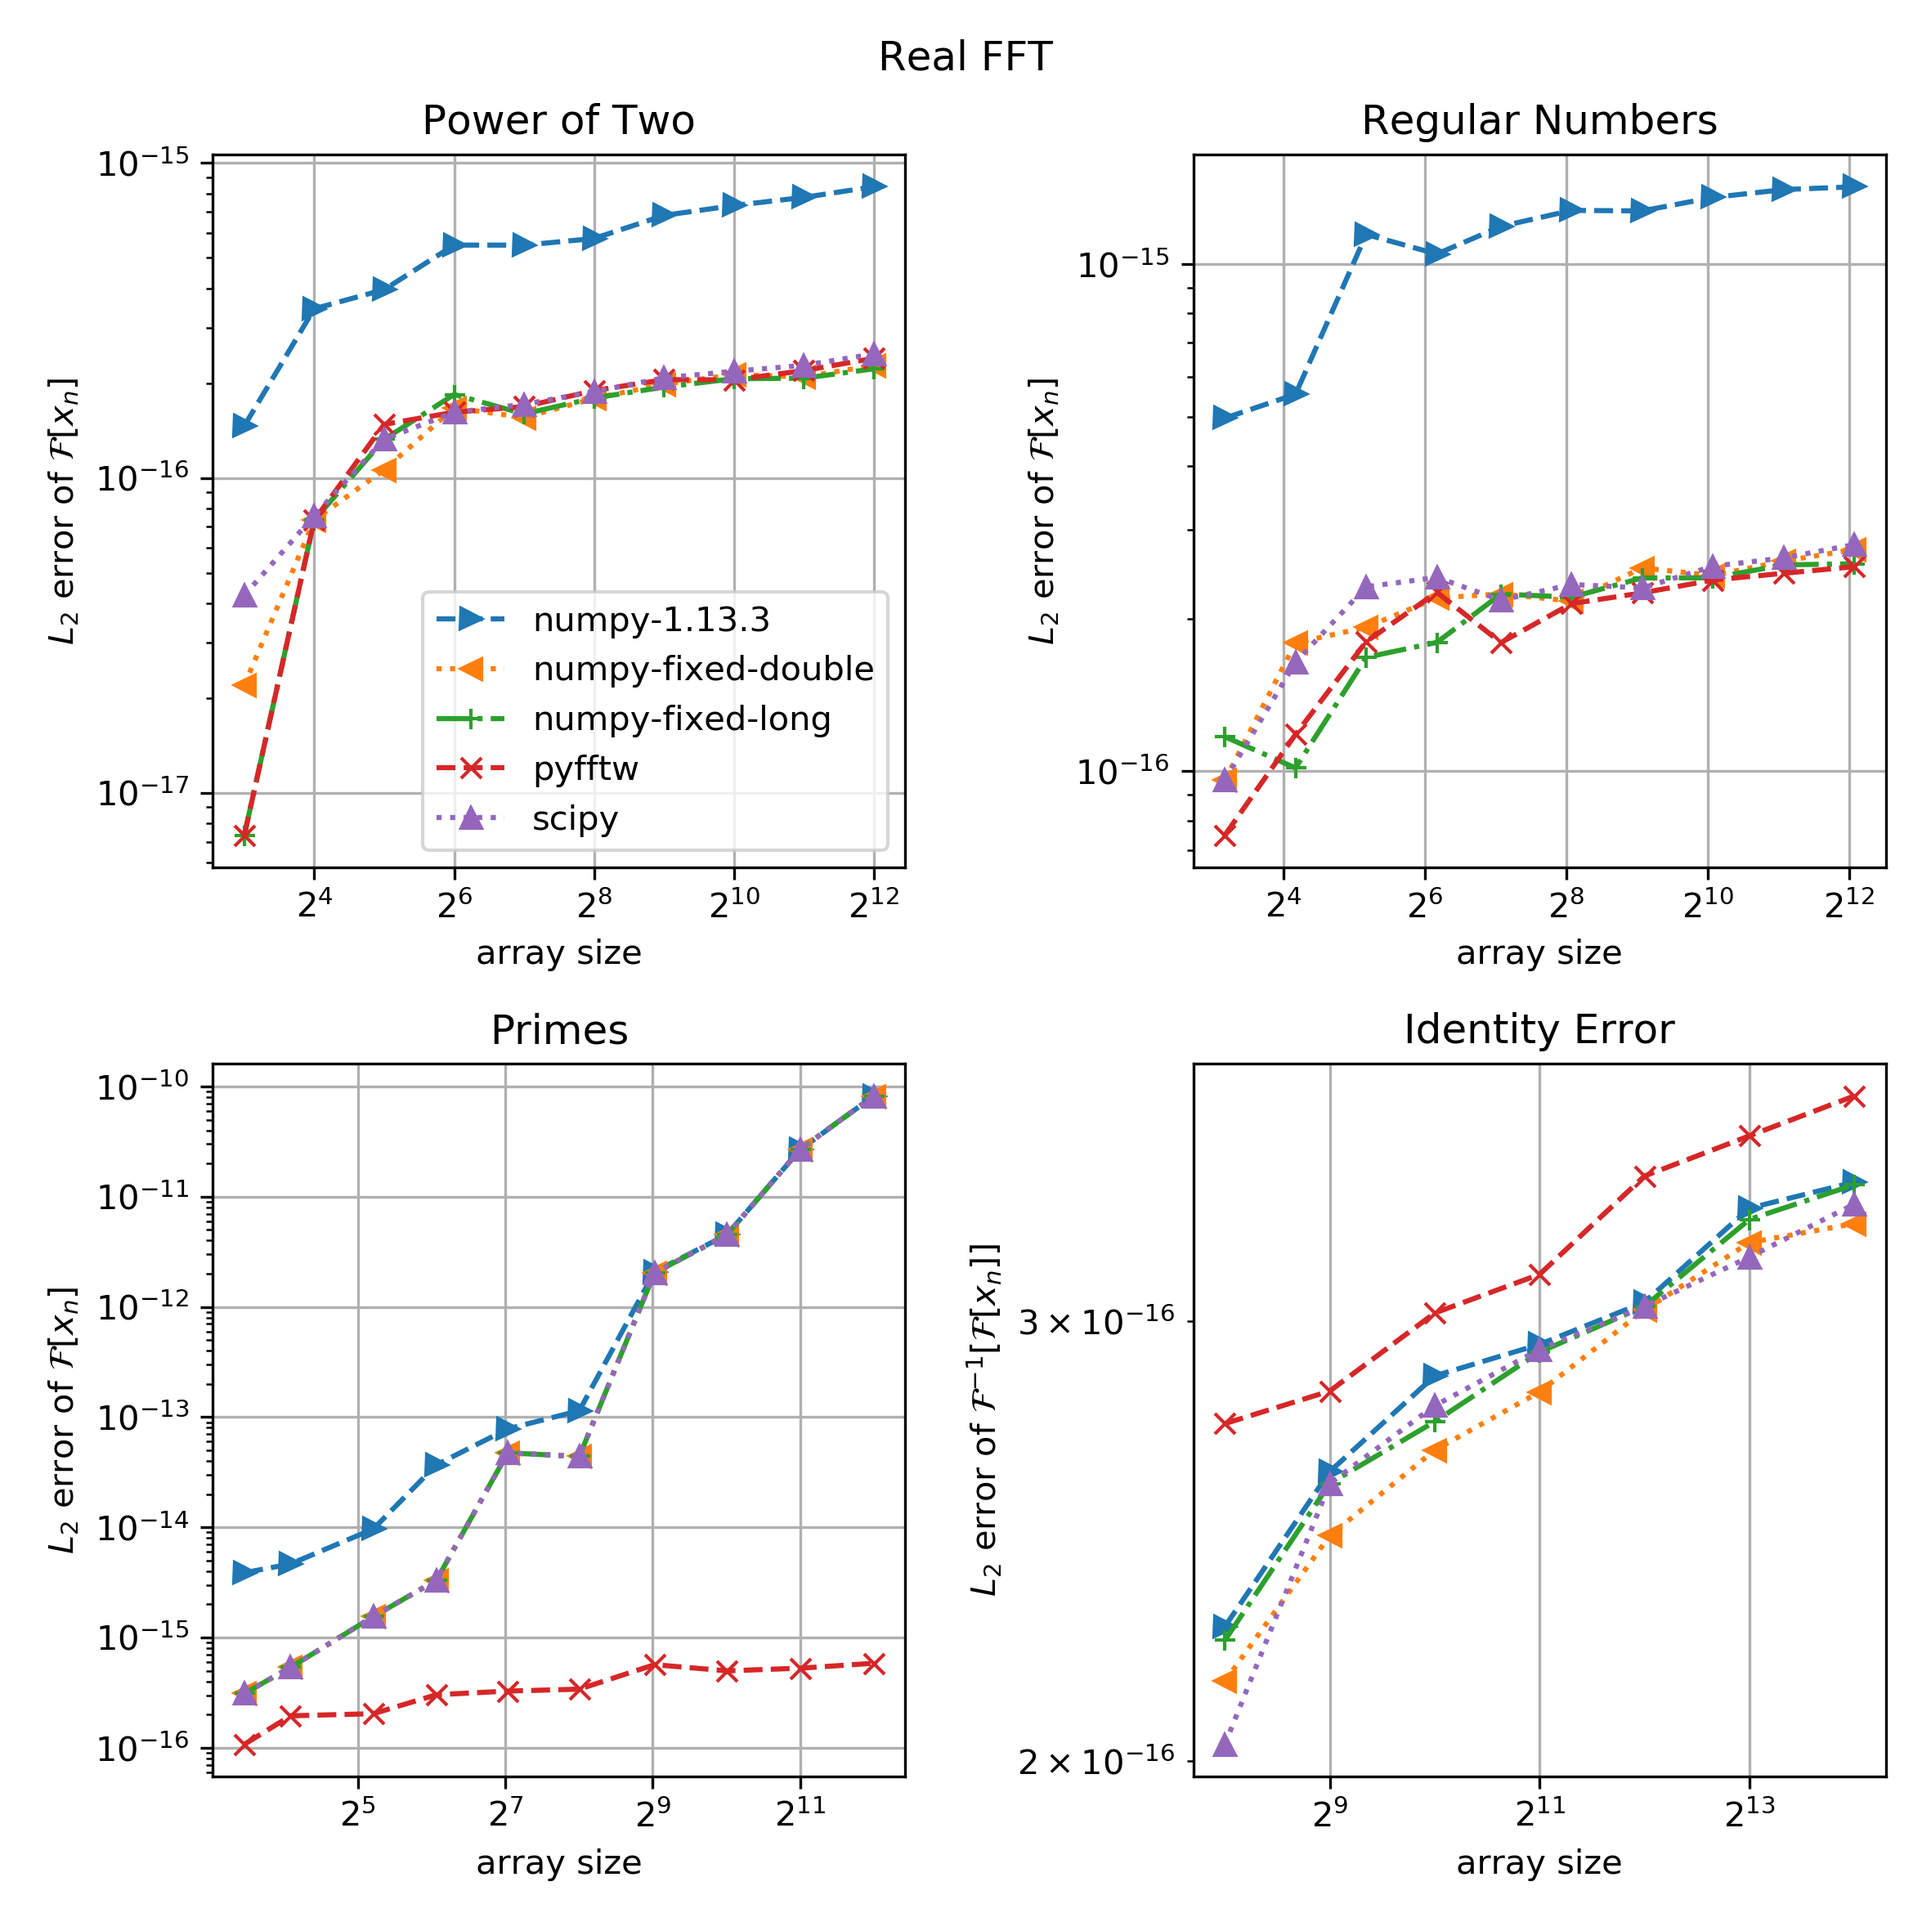
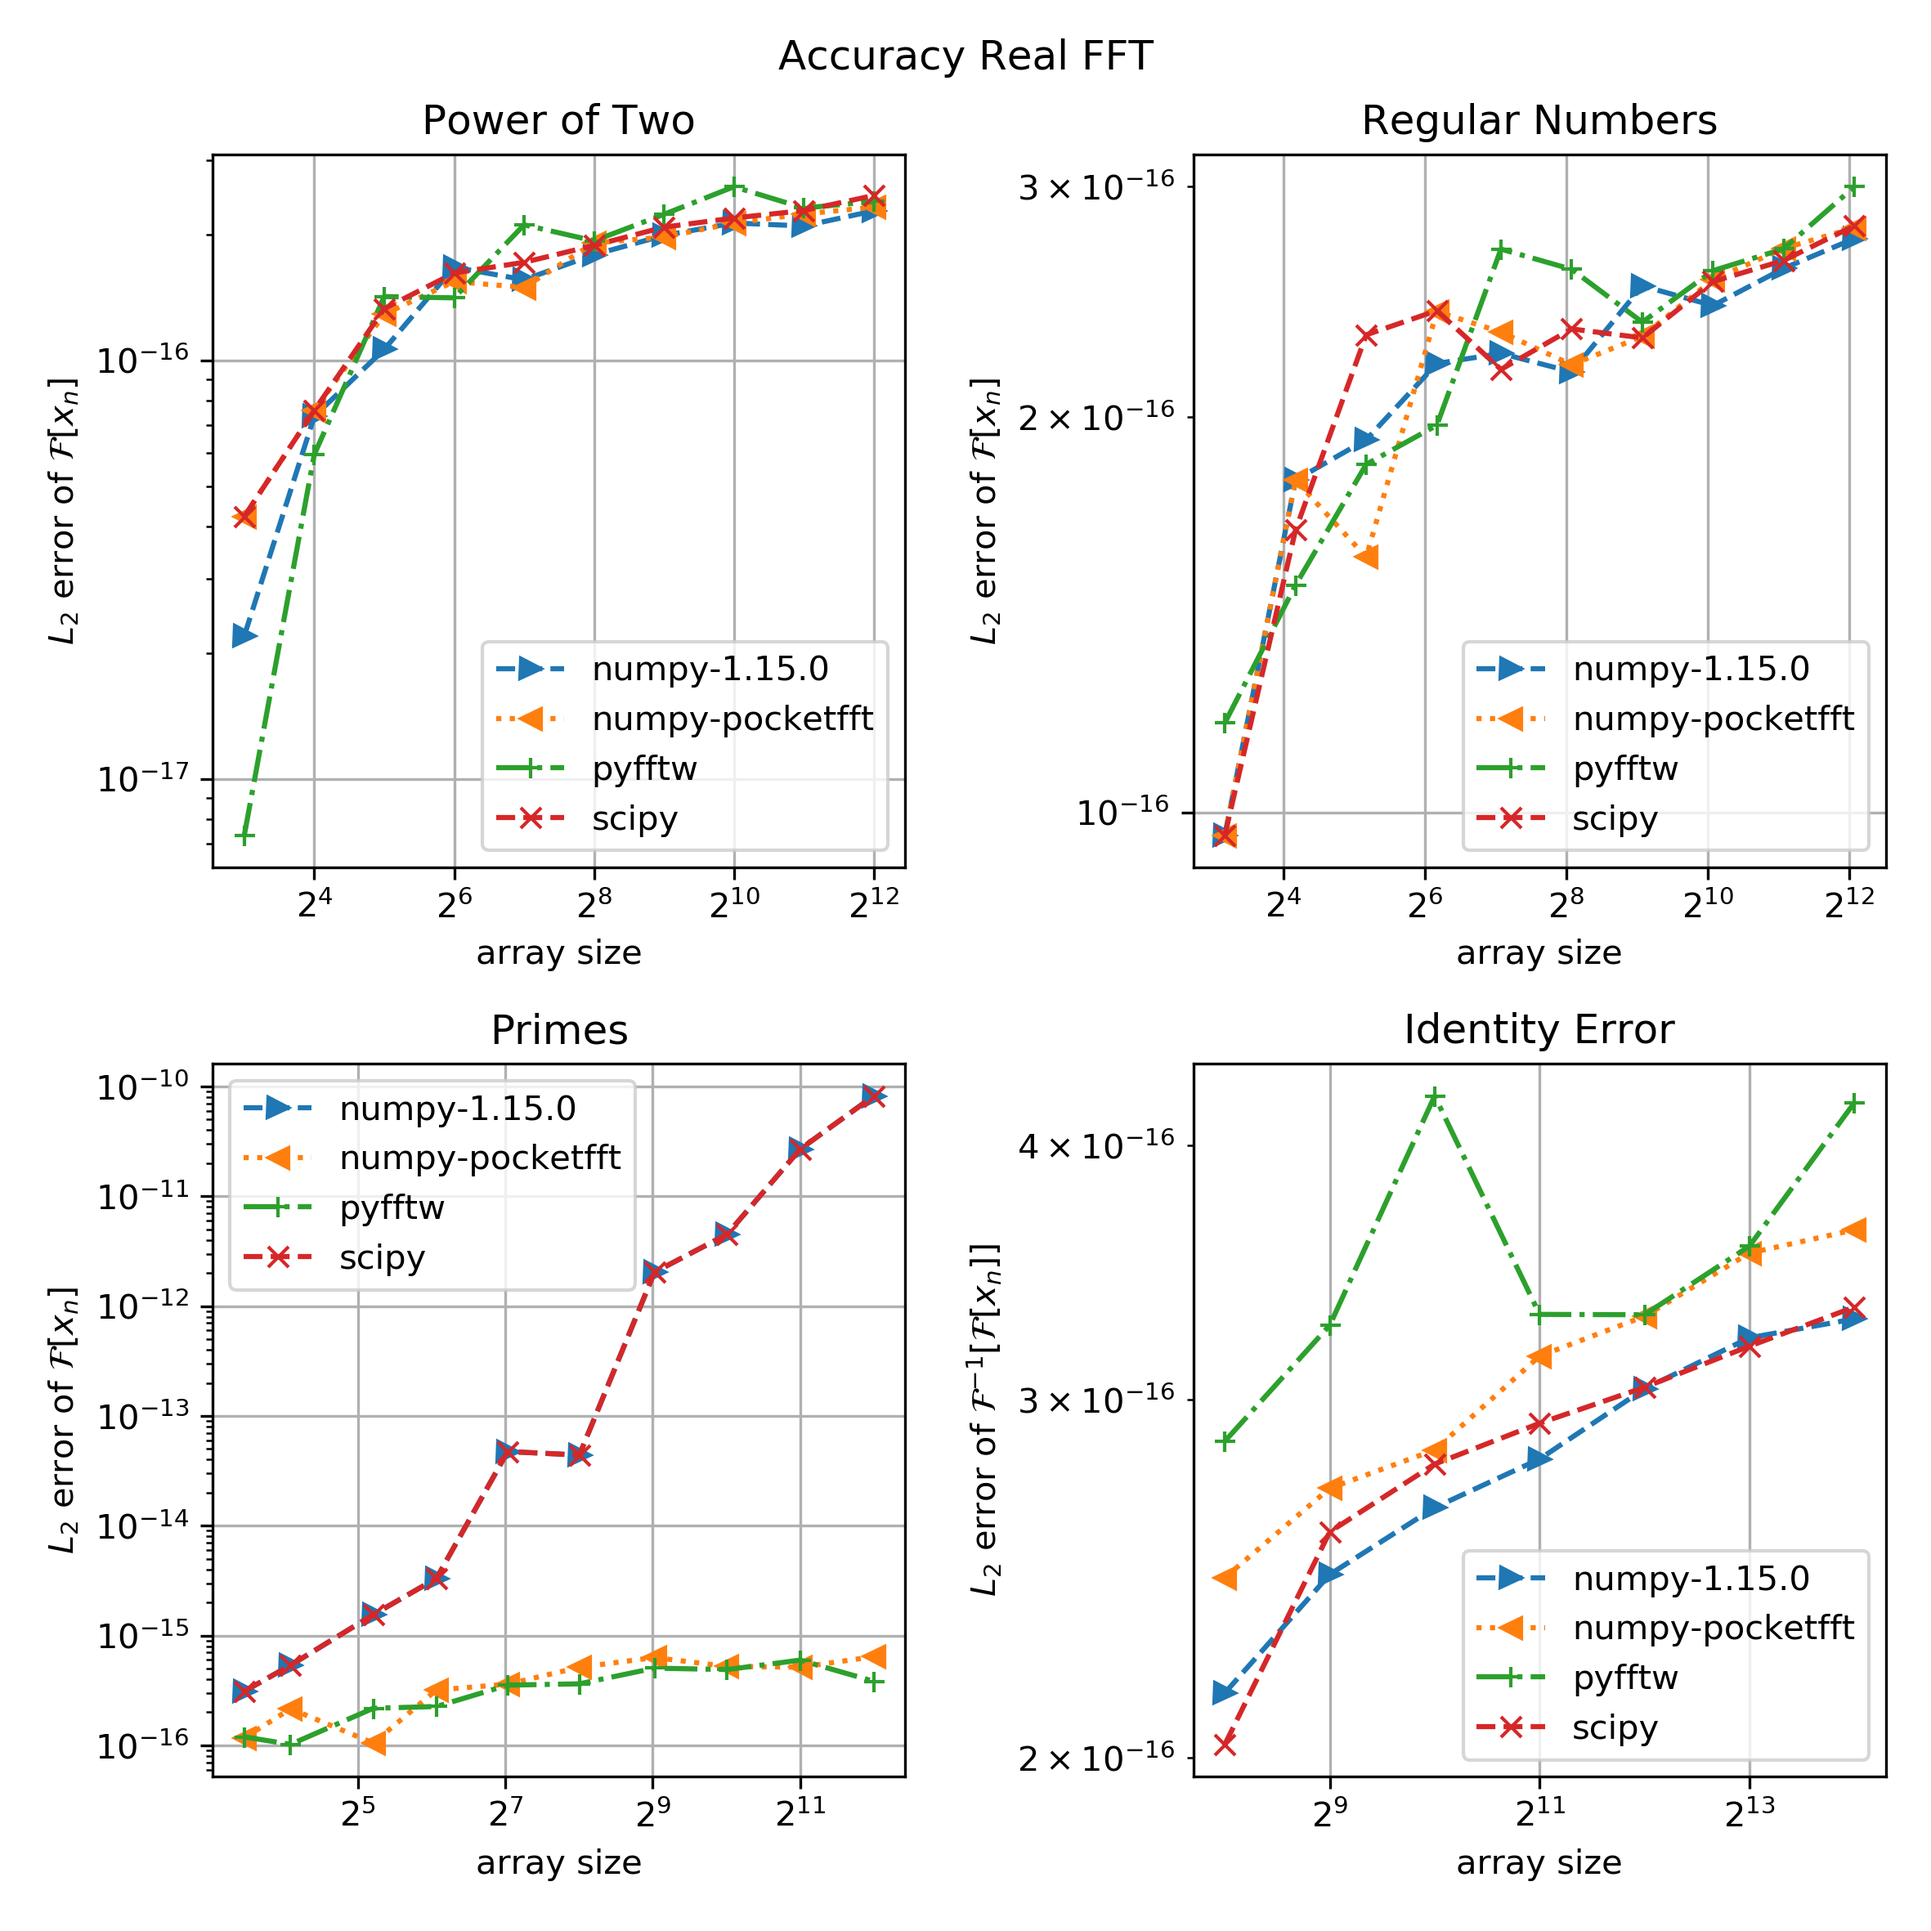
benchmark pocketfft

diff --git a/benchmark_speed.py b/benchmark_speed.py
@@ -5,11 +5,11 @@ import importlib
 from pathlib import Path
 
 # Path to a separate development version of numpy with fixes
-DEV_NUMPY = '~/sources/numpy/'
+DEV_NUMPY = '/home/nils/sources/numpy/'
 
 # a little bit of a hack to import different versions of NumPy
 fft = sys.argv[1]
-if 'fixed' in fft:
+if 'pocketfft' in fft:
     sys.path.insert(0, DEV_NUMPY)
 
 # other imports (which could possibly import numpy)
@@ -17,7 +17,6 @@ import h5py
 import config
 import numpy as np
 import scipy.fftpack
-import pyfftw
 from lib import l2error, l1error, linferror, scipy_rfft
 
 np.random.seed(config.SPEED_SEED)
@@ -25,6 +24,7 @@ np.random.seed(config.SPEED_SEED)
 results = {fft: {'sizes': [], 'complex': [], 'real': [],
            'complex_init': [], 'real_init': []}}
 
+print('Importing', np.__file__)
 
 def numpy_clear_cache(x):
     # hacky but seems to work...
@@ -34,7 +34,6 @@ def numpy_clear_cache(x):
         pass
     while fftpack._real_fft_cache.pop_twiddle_factors(n) is not None:
         pass
-
 
 def scipy_clear_cache(x):
     import scipy.fftpack._fftpack as sff
@@ -76,6 +75,7 @@ for N in config.SPEED_SIZES:
           1.0j * np.random.uniform(-0.5, 0.5, N))
     ra = np.random.uniform(-0.5, 0.5, N)
     if 'pyfftw' in fft:
+        import pyfftw
         ca = pyfftw.byte_align(ca)
         ra = pyfftw.byte_align(ra)
         ra2 = pyfftw.empty_aligned(ra.shape[0]//2+1, np.complex128)
@@ -88,7 +88,12 @@ for N in config.SPEED_SIZES:
         time_real = time_operation(cfft.execute, N2)
         time_complex = time_operation(rfft.execute, N2)
     else:
-        if 'numpy' in fft:
+        if 'pocketfft' in fft:
+            from numpy.fft import pocketfft
+            rfftfun = pocketfft.rfft
+            fftfun = pocketfft.fft
+            cc = None
+        elif 'numpy' in fft:
             rfftfun = np.fft.rfft
             fftfun = np.fft.fft
             cc = numpy_clear_cache

diff --git a/benchmark_accuracy.py b/benchmark_accuracy.py
@@ -3,11 +3,11 @@ import os
 from pathlib import Path
 
 # Path to a separate development version of numpy with fixes
-DEV_NUMPY = '~/sources/numpy/'
+DEV_NUMPY = '/home/nils/sources/numpy/'
 
 # a little bit of a hack to import different versions of NumPy
 fft = sys.argv[1]
-if 'fixed' in fft:
+if 'pocketfft' in fft:
     sys.path.insert(0, DEV_NUMPY)
 
 # other imports (which could possibly import numpy)
@@ -22,7 +22,11 @@ from lib import l2error, l1error, linferror, scipy_rfft
 # 2 - identity complex FFT - e.g. ifft(fft(x))
 # 3 - forward real FFT
 # 4 - identity real FFT - e.g. irfft(rfft(x))
-if 'numpy' in fft:
+if 'pocketfft' in fft:
+    from numpy.fft import pocketfft as pfft
+    routines = (pfft.fft, lambda x: pfft.ifft(pfft.fft(x)),
+                pfft.rfft, lambda x: pfft.irfft(pfft.rfft(x)))
+elif 'numpy' in fft:
     routines = (np.fft.fft, lambda x: np.fft.ifft(np.fft.fft(x)),
                 np.fft.rfft, lambda x: np.fft.irfft(np.fft.rfft(x)))
 elif fft == 'scipy':
@@ -32,6 +36,7 @@ elif fft == 'scipy':
                 lambda x: scipy.fftpack.irfft(scipy.fftpack.rfft(x)))
 elif fft == 'pyfftw':
     import pyfftw.interfaces.numpy_fft as pyfftw
+    print('Importing', pyfftw.__file__)
     routines = (pyfftw.fft, lambda x: pyfftw.ifft(pyfftw.fft(x)),
                 pyfftw.rfft, lambda x: pyfftw.irfft(pyfftw.rfft(x)))
 

diff --git a/plot_speed_benchmark.py b/plot_speed_benchmark.py
@@ -38,28 +38,29 @@ for k in sorted(results.keys()):
     fp = lib.is_prime(n)
     # the non-power of two, non-primes -> regular (or Hamming) numbers
     f2 = ~(f | fp)
-    lc1, = ax1.plot(n[f], v['complex'][f], **kwargs)
-    lc2, = ax2.plot(n[f2], v['complex'][f2], **kwargs)
-    lc3, = ax3.plot(n[fp], v['complex'][fp], **kwargs)
-    if k != 'pyfftw':
-        lc4, = ax4.plot(n[~fp], s[~fp], **kwargs)
+    key = 'complex'
+    lc1, = ax1.plot(n[f], v[key][f], **kwargs)
+    lc2, = ax2.plot(n[f2], v[key][f2], **kwargs)
+    lc3, = ax3.plot(n[fp], v[key][fp], **kwargs)
+#    if k != 'pyfftw':
+#        lc4, = ax4.plot(n[~fp], s[~fp], **kwargs)
     i += 1
 
 ax1.set_title('Power of Two')
 ax2.set_title('Regular Numbers')
 ax3.set_title('Primes')
-ax4.set_title('Twiddle Creation Time')
+#ax4.set_title('Twiddle Creation Time')
 
-for ax in axs.flat:
+for ax in axs.flat[:-1]:
     ax.set_yscale('log')
     ax.set_xscale('log', basex=2)
     ax.set_ylabel('runtime [s]')
     ax.grid()
+    ax.legend(loc='best')
     ax.set_xlabel('array size')
-ax4.set_ylabel('first runtime - best runtime [s]')
+#ax4.set_ylabel('first runtime - best runtime [s]')
 #ax1.set_ylim((8e-17, 2e-15))
-ax1.legend(loc='best')
-ax4.legend(loc='best')
+#ax4.legend(loc='best')
 fig.suptitle('Runtime Complex FFT')
 fig.tight_layout()
 fig.subplots_adjust(top=0.92)

diff --git a/plot_real_speed_benchmark.py b/plot_real_speed_benchmark.py
@@ -41,26 +41,24 @@ for k in sorted(results.keys()):
     lc1, = ax1.plot(n[f], v['real'][f], **kwargs)
     lc2, = ax2.plot(n[f2], v['real'][f2], **kwargs)
     lc3, = ax3.plot(n[fp], v['real'][fp], **kwargs)
-    if k != 'pyfftw':
-        # the primes do not require twiddle factors
-        lc4, = ax4.plot(n[~fp], s[~fp], **kwargs)
+#    if k != 'pyfftw':
+#        # the primes do not require twiddle factors
+#        lc4, = ax4.plot(n[~fp], s[~fp], **kwargs)
     i += 1
 
 ax1.set_title('Power of Two')
 ax2.set_title('Regular Numbers')
 ax3.set_title('Primes')
-ax4.set_title('Twiddle Creation Time')
+#ax4.set_title('Twiddle Creation Time')
 
-for ax in axs.flat:
+for ax in axs.flat[:-1]:
     ax.set_yscale('log')
     ax.set_xscale('log', basex=2)
     ax.set_ylabel('runtime [s]')
     ax.grid()
     ax.set_xlabel('array size')
-ax4.set_ylabel('first runtime - best runtime [s]')
-#ax1.set_ylim((8e-17, 2e-15))
-ax1.legend(loc='best')
-ax4.legend(loc='best')
+    ax.legend(loc='best')
+#ax4.set_ylabel('first runtime - best runtime [s]')
 fig.suptitle('Runtime Real FFT')
 fig.tight_layout()
 fig.subplots_adjust(top=0.92)

diff --git a/lib.py b/lib.py
@@ -3,10 +3,12 @@
 import time
 import numpy as np
 import scipy.fftpack
-import gmpy2 #  much faster than using mpmath
-context = gmpy2.get_context()
-context.precision = 512 #  bits - should be very safe, one could reduce that
-
+try:
+    import gmpy2 #  much faster than using mpmath
+    context = gmpy2.get_context()
+    context.precision = 512 #  bits - should be very safe, one could reduce that
+except:
+    pass
 
 def exact_fft(x, debug=False):
     ''' Calculates the exact DFT using gmpy2

diff --git a/plot_real_accuracy_benchmark.py b/plot_real_accuracy_benchmark.py
@@ -59,10 +59,11 @@ for ax in axs.flat:
     ax.set_ylabel(r'$L_2$ error of $\mathcal{F}[x_n]$')
     ax.grid()
     ax.set_xlabel('array size')
+    ax.legend(loc='best')
 ax4.set_ylabel(r'$L_2$ error of $\mathcal{F}^{-1}[\mathcal{F}[x_n]]$')
 #ax1.set_ylim((5e-17, 5e-15))
-ax1.legend(loc='best')
-fig.suptitle('Real FFT')
+#ax1.legend(loc='best')
+fig.suptitle('Accuracy Real FFT')
 fig.tight_layout()
 fig.subplots_adjust(top=0.92)
 if save:

diff --git a/plot_accuracy_benchmark.py b/plot_accuracy_benchmark.py
@@ -59,10 +59,11 @@ for ax in axs.flat:
     ax.set_ylabel(r'$L_2$ error of $\mathcal{F}[x_n]$')
     ax.grid()
     ax.set_xlabel('array size')
+    ax.legend(loc='best')
 ax4.set_ylabel(r'$L_2$ error of $\mathcal{F}^{-1}[\mathcal{F}[x_n]]$')
 #ax1.set_ylim((8e-17, 2e-15))
-ax1.legend(loc='best')
-fig.suptitle('Complex FFT')
+
+fig.suptitle('Accuracy Complex FFT')
 fig.tight_layout()
 fig.subplots_adjust(top=0.92)
 if save:

diff --git a/test_prime_accuracy.py b/test_prime_accuracy.py
@@ -1,0 +1,18 @@
+''' Tests the accuracy of the prime-size real-valued FFT.
+'''
+import numpy as np
+import matplotlib.pyplot as plt
+import lib
+
+
+N = lib.next_prime(4096)
+print(N)
+#N = 256
+np.random.seed(123)
+ra = np.random.uniform(-0.5, 0.5, N)
+
+ft_ra = lib.scipy_rfft(ra)
+exact_ft_ra = lib.exact_rfft(ra)
+
+plt.plot(np.abs(ft_ra - exact_ft_ra))
+plt.show()
